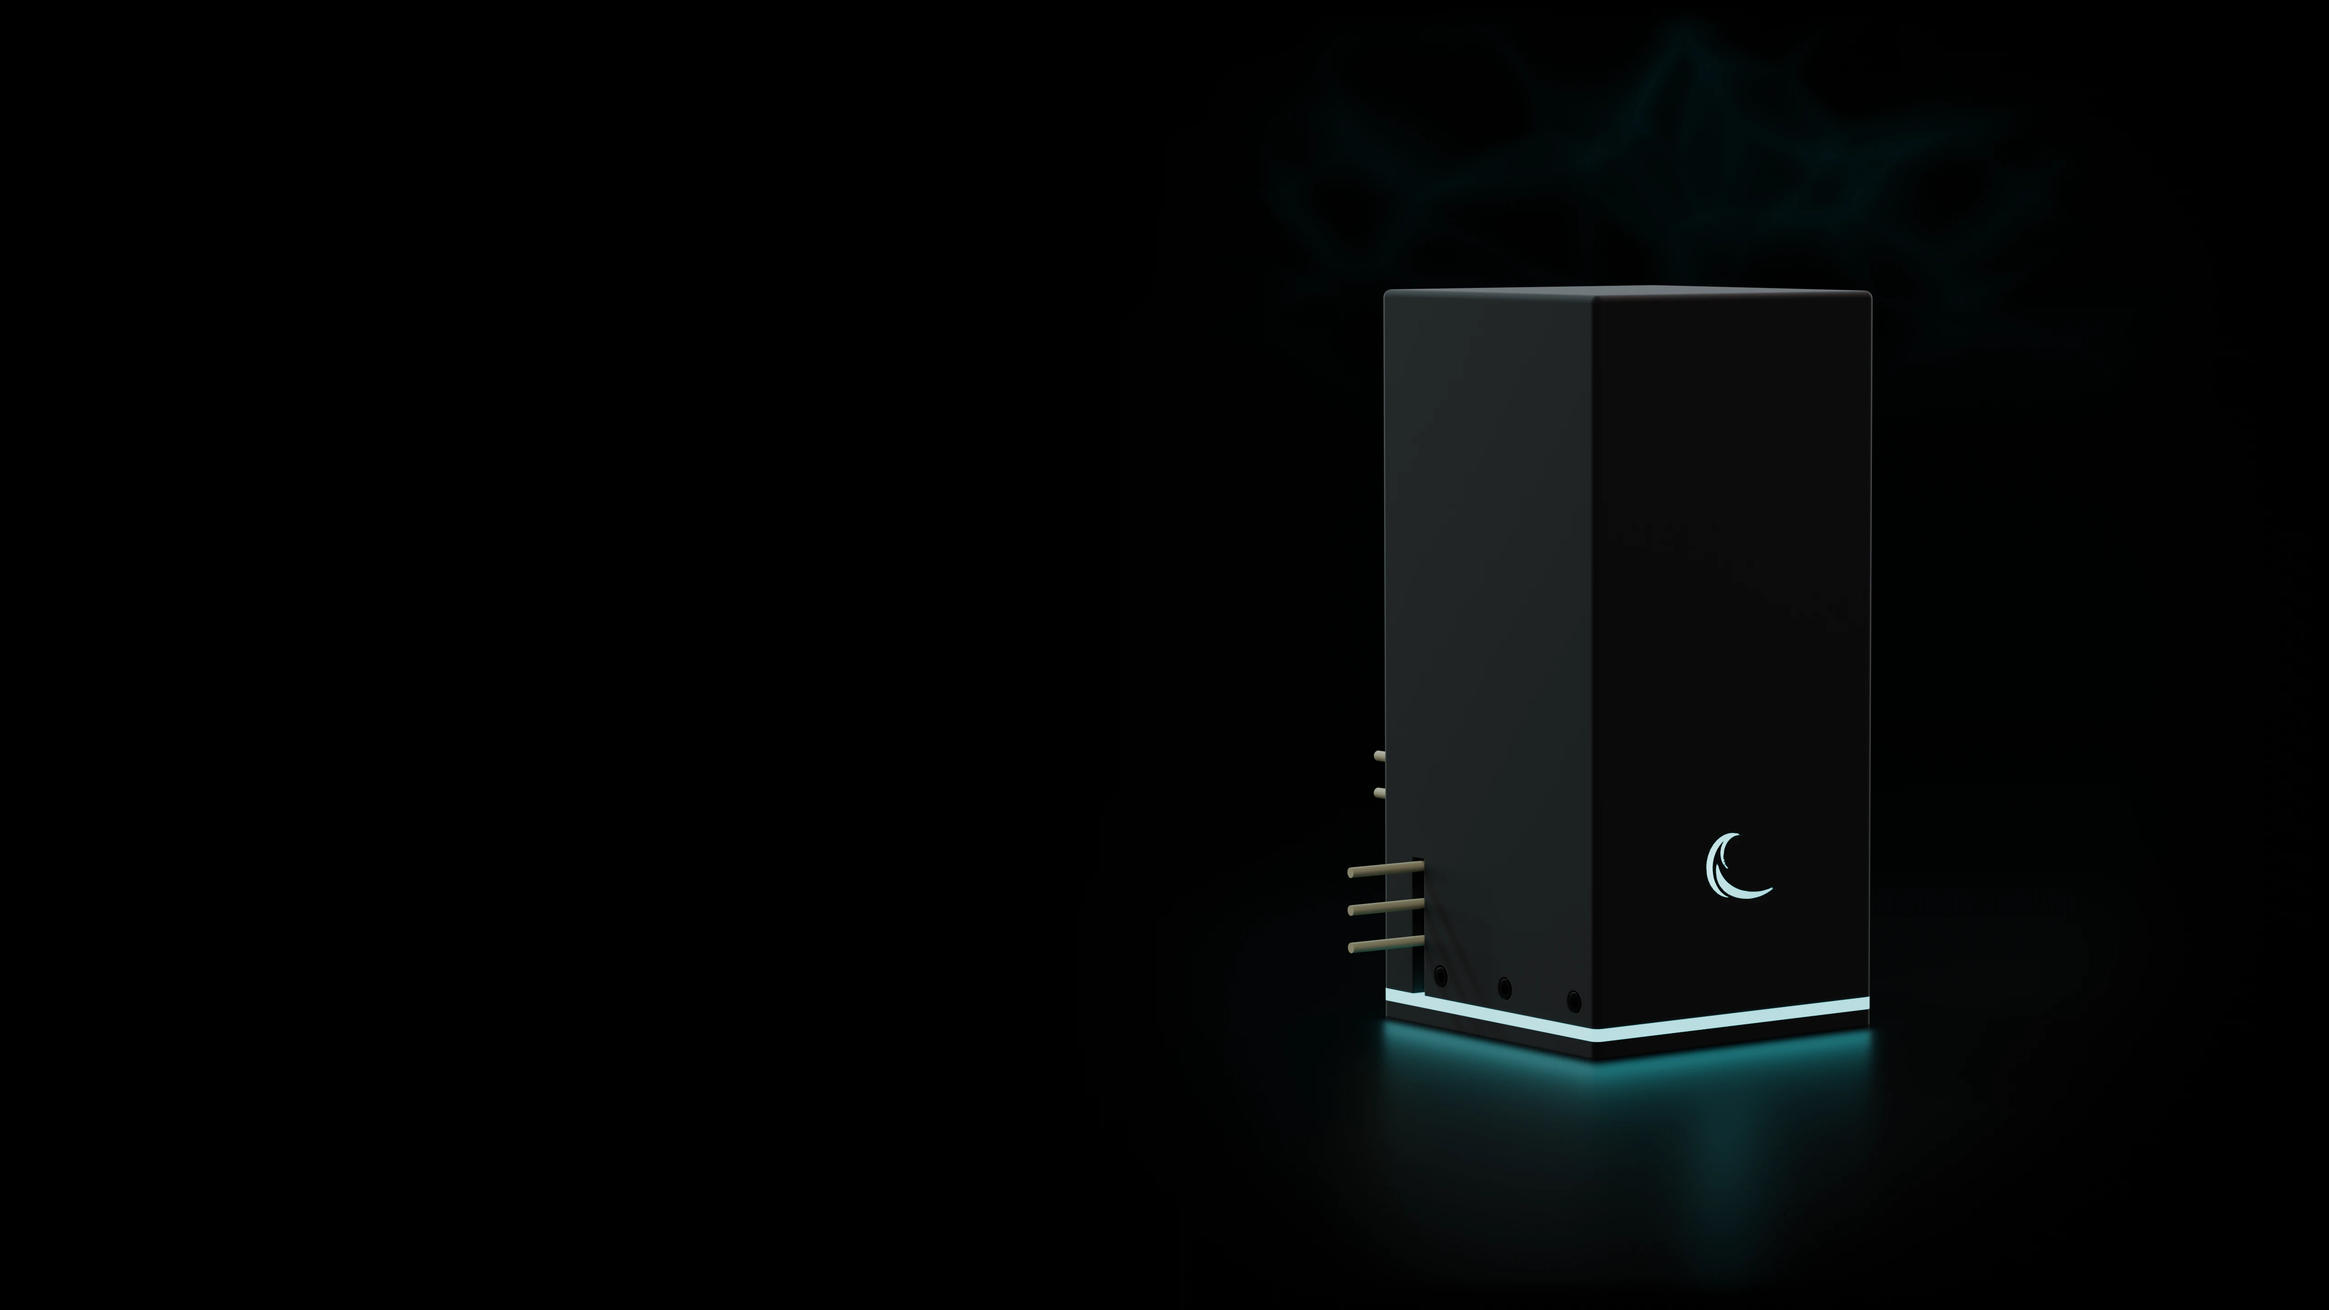
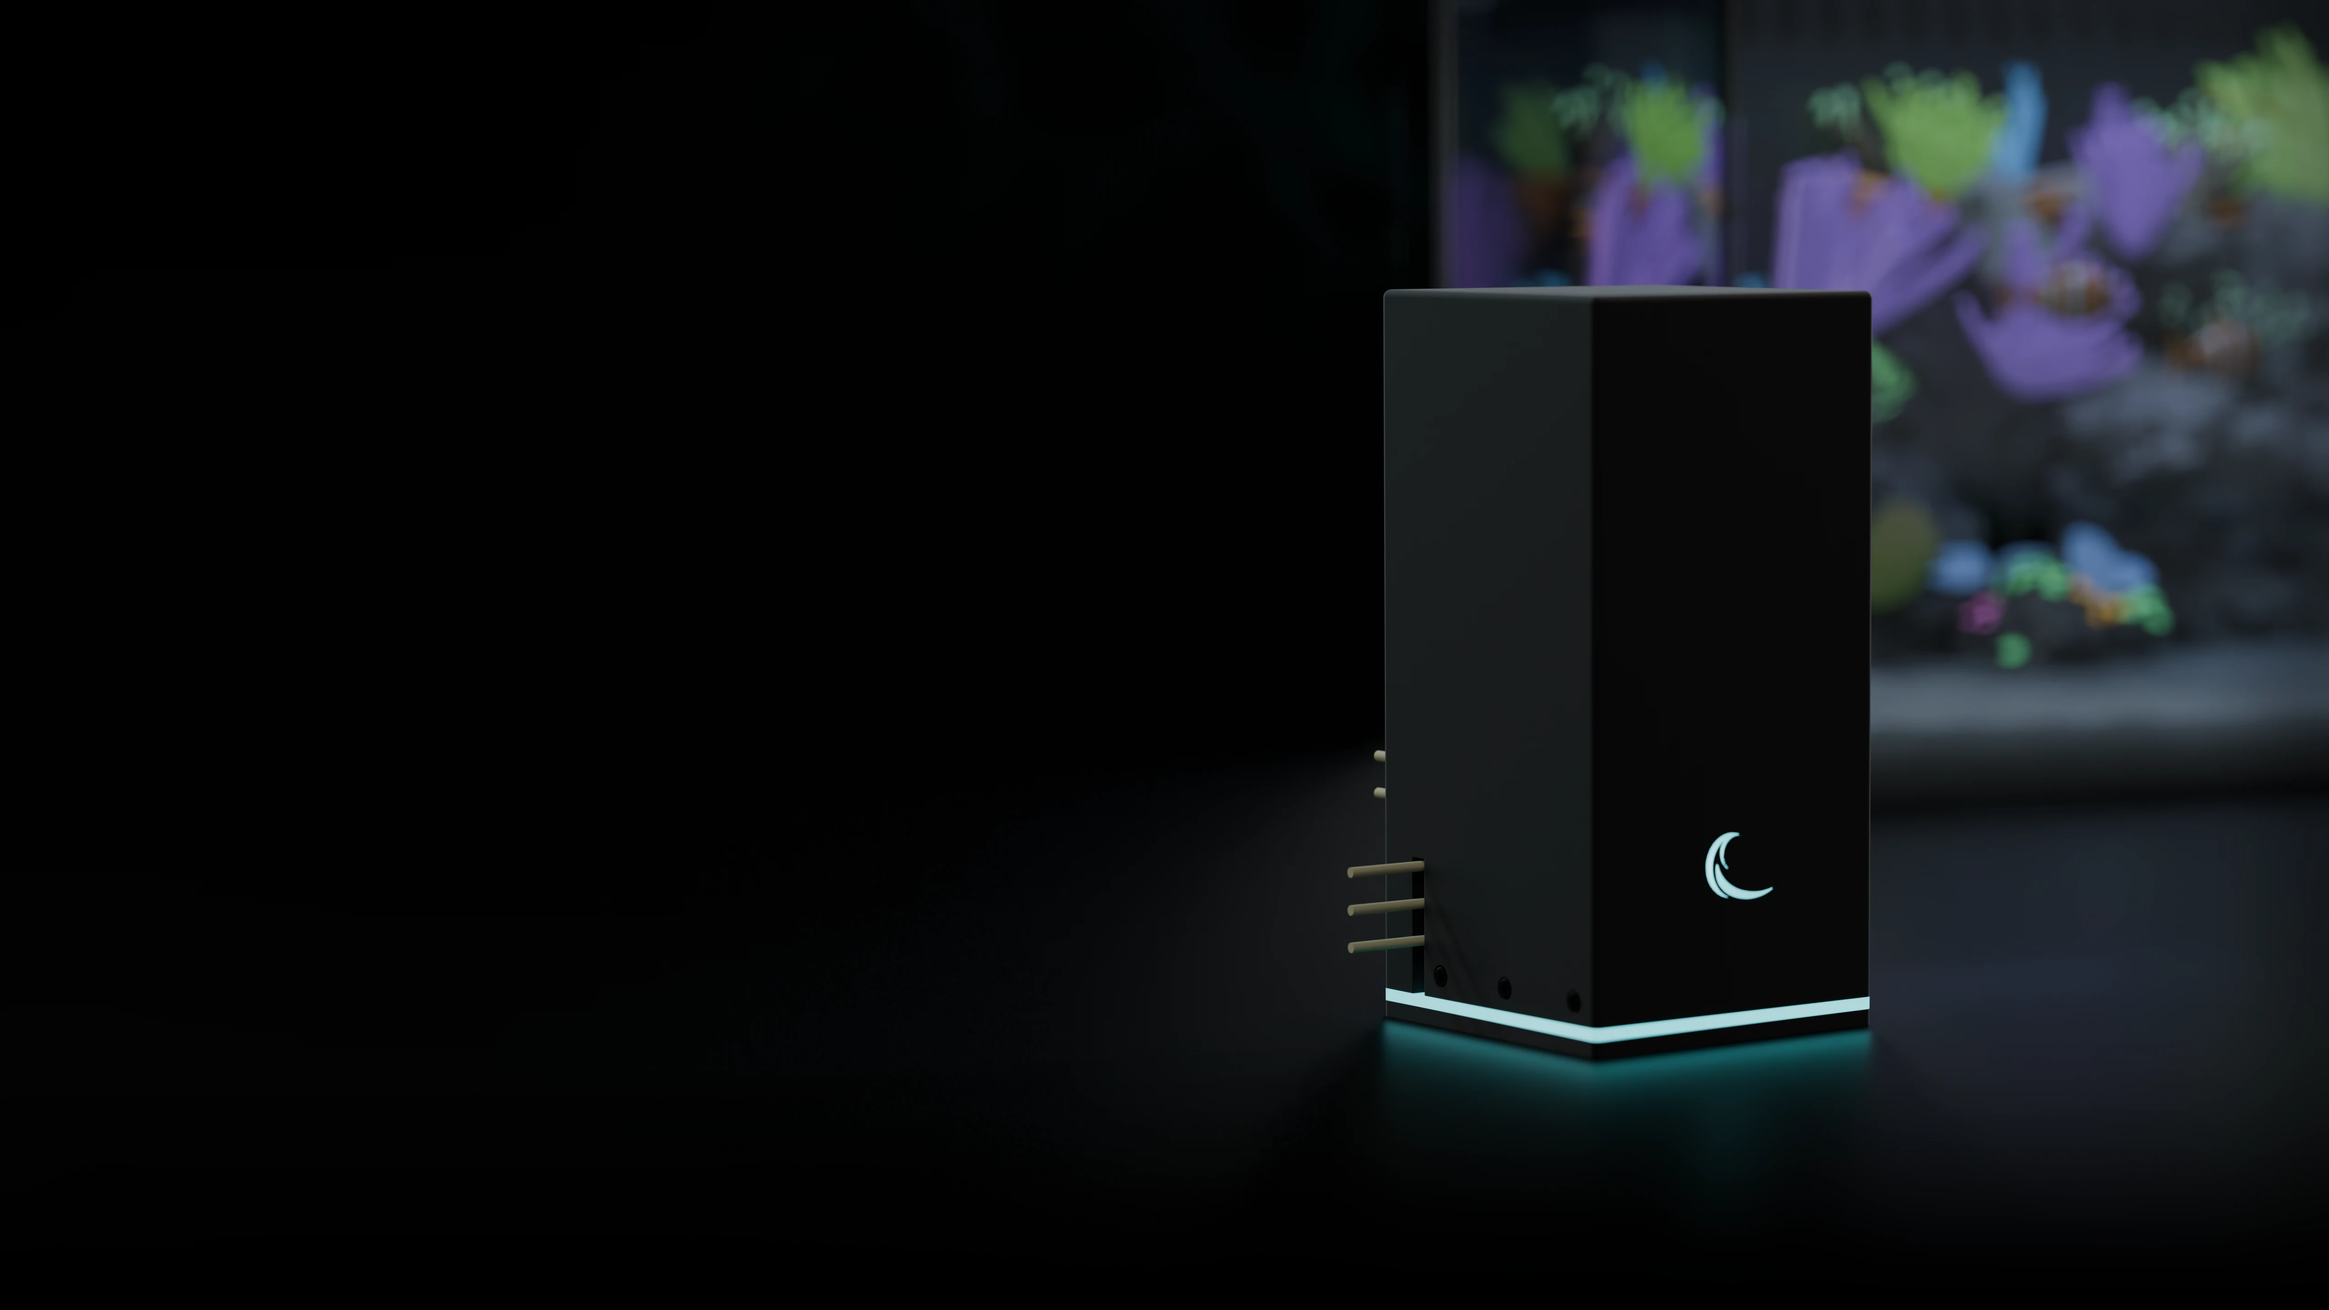
feat: reef hero, edge-to-edge; new 404; Wavie beside a tank and in its tray
- Homepage hero re-rendered at 5K with a nano reef softly behind the tower,
  filling the hero edge to edge and fading into the page
- 404 page rebuilt on the exploded tour frame
- Features: 'Beside a tank' and 'How it connects' tabs

Claude-Session: https://claude.ai/code/session_01X9roU4yQXuoT988YzKPjXX

diff --git a/assets/css/site.css b/assets/css/site.css
@@ -370,7 +370,13 @@ figure[data-labels] { position: relative; }
 
 /* ── Homepage hero: one still render, copy over its black left side ── */
 .hero { position: relative; min-height: 100vh; min-height: 100svh; display: flex; align-items: center; overflow: hidden; }
-.hero-image { position: absolute; inset: 0; width: 100%; height: 100%; object-fit: contain; object-position: 50% 50%; }
+/* The render fills the hero edge to edge (cover, held on the tower at about
+   two thirds across), and its bottom fades into the page so there is no seam. */
+.hero-image {
+  position: absolute; inset: 0; width: 100%; height: 100%; object-fit: cover; object-position: 66% 50%;
+  -webkit-mask-image: linear-gradient(to bottom, #000 82%, transparent);
+  mask-image: linear-gradient(to bottom, #000 82%, transparent);
+}
 .hero .wrap { position: relative; }
 .hero-copy { width: min(42%, 36rem); padding-block: calc(var(--nav-h) + 24px) 40px; }
 .hero-copy > * + * { margin-top: 22px; }
@@ -388,6 +394,16 @@ figure[data-labels] { position: relative; }
   .facts-cols ul { line-height: 1.55; font-size: 0.875rem; }
   .hero-actions { margin-top: 22px; }
 }
+/* Portrait screens wide enough for the side-by-side layout (large tablets):
+   cover would blow the tower up behind the text, so the full 16:9 render sits
+   along the bottom, faded at its top and bottom edges into the page. */
+@media (min-width: 861px) and (max-aspect-ratio: 1/1) {
+  .hero-image {
+    inset: auto 0 0 0; height: auto; aspect-ratio: 16 / 9;
+    -webkit-mask-image: linear-gradient(to bottom, transparent, #000 18%, #000 82%, transparent);
+    mask-image: linear-gradient(to bottom, transparent, #000 18%, #000 82%, transparent);
+  }
+}
 .tests-cue { display: none; }
 @media (max-width: 860px) {
   /* Phones: the first screen is exactly the render, the headline and the two
@@ -399,9 +415,10 @@ figure[data-labels] { position: relative; }
     display: block; position: relative; margin-top: var(--nav-h);
     height: max(calc(var(--screen-h, 100svh) * 0.42), calc(var(--screen-h, 100svh) - var(--nav-h) - var(--hero-copy, 270px) + 20px));
   }
-  /* The phone image is already cropped tight to the tower; contain keeps all of
-     it in view on short screens, and its black edges meet the black page. */
-  .hero-image { position: absolute; inset: 0; width: 100%; height: 100%; object-fit: contain; object-position: 50% 50%; }
+  /* The phone image is cropped tight to the tower and fills its box (cover,
+     anchored a little above centre so the tower's top is never cut); the bottom
+     fades into the page under the headline. */
+  .hero-image { object-position: 50% 40%; -webkit-mask-image: linear-gradient(to bottom, #000 72%, transparent); mask-image: linear-gradient(to bottom, #000 72%, transparent); }
   .hero .wrap { margin-top: -20px; }
   .hero-copy { width: 100%; padding-block: 0 40px; display: flex; flex-direction: column; }
   .hero-copy > * + * { margin-top: 0; }
@@ -580,8 +597,41 @@ html.js .unveil:not(.is-static) .beat.is-on .beat-copy { transform: none; }
 @keyframes spin { to { transform: rotate(360deg); } }
 
 /* 404 */
-.not-found h1 { margin-top: 8px; }
-.not-found .hero-actions { margin-top: 28px; }
+/* 404: the exploded tour frame fills the screen, the parts drift slowly,
+   and the copy sits in the dark zone on the left (on phones, below the parts). */
+.lost { position: relative; min-height: 100vh; min-height: 100svh; display: flex; align-items: center; overflow: hidden; }
+.lost-art { position: absolute; inset: 0; }
+.lost-art img {
+  width: 100%; height: 100%; object-fit: cover; object-position: 100% 50%;
+  animation: lost-drift 18s ease-in-out infinite alternate;
+  -webkit-mask-image: linear-gradient(to bottom, #000 80%, transparent);
+  mask-image: linear-gradient(to bottom, #000 80%, transparent);
+}
+@keyframes lost-drift {
+  from { transform: scale(1) translate3d(0, 0, 0); }
+  to { transform: scale(1.06) translate3d(-1.2%, -1%, 0); }
+}
+.lost-copy { position: relative; isolation: isolate; padding-block: calc(var(--nav-h) + 40px) 64px; }
+.lost-copy > * { max-width: 30rem; }
+.lost .eyebrow { color: var(--teal-bright); font-size: 0.8125rem; letter-spacing: 0.14em; text-transform: uppercase; }
+.lost h1 { margin-top: 14px; font-size: clamp(2.3rem, 1rem + 2.9vw, 3.6rem); }
+.lost .lede { margin-top: 20px; color: var(--ink-2); }
+.lost .hero-actions { margin-top: 32px; }
+.lost-links { display: flex; flex-wrap: wrap; gap: 8px 22px; margin-top: 36px; font-size: 0.9375rem; }
+.lost-links a { color: var(--ink-2); text-decoration: none; border-bottom: 1px solid rgba(255, 255, 255, 0.18); padding-bottom: 2px; }
+.lost-links a:hover { color: var(--ink); border-color: var(--teal-bright); }
+@media (max-width: 860px) {
+  .lost { align-items: flex-end; }
+  /* The phone frame shows whole at full width; its parts fill the top ~60%. */
+  .lost-art { bottom: auto; }
+  .lost-art img { height: auto; -webkit-mask-image: linear-gradient(to bottom, #000 50%, transparent 66%); mask-image: linear-gradient(to bottom, #000 50%, transparent 66%); }
+  .lost-copy { padding-block: calc(100vw * 1.02) 48px; }
+  .lost .hero-actions { flex-direction: row; gap: 10px; }
+  .lost .hero-actions .btn { flex: 1; padding: 0 12px; }
+  .lost .label-wide { display: none; }
+  .lost .label-narrow { display: inline; }
+}
+@media (prefers-reduced-motion: reduce) { .lost-art img { animation: none; } }
 
 /* Privacy notice for analytics */
 .consent {

diff --git a/features.html b/features.html
@@ -29,7 +29,7 @@
   <link rel="preconnect" href="https://fonts.gstatic.com" crossorigin />
   <link href="https://fonts.googleapis.com/css2?family=Poppins:wght@300;400;500&display=swap" rel="stylesheet" />
   <link rel="preload" href="/assets/seq/tour.json?v=8ab26c1b9c" as="fetch" crossorigin />
-  <link rel="stylesheet" href="/assets/css/site.css?v=d32862a13d" />
+  <link rel="stylesheet" href="/assets/css/site.css?v=a9a95046a7" />
   <script>
     // Pinned scroll tour unless reduced motion is requested (see assets/js/unveil.js).
     // Scrolling is held from the first moment ("tour-gate") until unveil.js has
@@ -292,11 +292,21 @@
         <div class="tabs" data-tabs>
           <div class="tab-list" role="tablist" aria-label="Size and connections">
             <button type="button" role="tab" id="tab-size" aria-controls="panel-size" aria-selected="true">Size</button>
+            <button type="button" role="tab" id="tab-tank" aria-controls="panel-tank" aria-selected="false" tabindex="-1">Beside a tank</button>
+            <button type="button" role="tab" id="tab-installed" aria-controls="panel-installed" aria-selected="false" tabindex="-1">How it connects</button>
             <button type="button" role="tab" id="tab-ports" aria-controls="panel-ports" aria-selected="false" tabindex="-1">Connections</button>
           </div>
           <div role="tabpanel" id="panel-size" aria-labelledby="tab-size">
             <img class="photo" src="/assets/img/banana-dims.webp" alt="Wavie beside a banana for scale, with dimension lines showing 184 mm tall and 88 mm wide" width="1600" height="1200" loading="lazy" />
             <p class="muted panel-note">Small enough for a sump cabinet or a shelf beside the tank. Banana for scale.</p>
+          </div>
+          <div role="tabpanel" id="panel-tank" aria-labelledby="tab-tank" hidden>
+            <img class="photo" src="/assets/img/beside-tank.webp" alt="Wavie standing beside a 40 cm rimless nano reef tank, shown at true scale" width="1600" height="1200" loading="lazy" />
+            <p class="muted panel-note">At true scale beside a 40 cm nano reef. Wavie stands outside the tank; only its sample line and probes reach the water.</p>
+          </div>
+          <div role="tabpanel" id="panel-installed" aria-labelledby="tab-installed" hidden>
+            <img class="photo" src="/assets/img/installed.webp" alt="Wavie beside a nano reef tank, with its sample line and probe cables running into the tank's rear chamber and reagent lines running to six bottles in a tray" width="1600" height="1200" loading="lazy" />
+            <p class="muted panel-note">Wavie stands in its tray beside the tank, with the six reagent bottles either side. The sample line and probes go into the tank; test waste goes to its own bottle.</p>
           </div>
           <div role="tabpanel" id="panel-ports" aria-labelledby="tab-ports" hidden>
             <img class="photo" src="/assets/img/rear-ports.webp" alt="The rear connector panel of Wavie, labelled 24V, CAN, TMP, ORP, SA, PH and DO" width="1600" height="1200" loading="lazy" />

diff --git a/404.html b/404.html
@@ -29,7 +29,7 @@
   <link rel="preconnect" href="https://fonts.googleapis.com" />
   <link rel="preconnect" href="https://fonts.gstatic.com" crossorigin />
   <link href="https://fonts.googleapis.com/css2?family=Poppins:wght@300;400;500&display=swap" rel="stylesheet" />
-  <link rel="stylesheet" href="/assets/css/site.css?v=d32862a13d" />
+  <link rel="stylesheet" href="/assets/css/site.css?v=a9a95046a7" />
 </head>
 <body>
   <a class="skip" href="#main">Skip to content</a>
@@ -67,24 +67,25 @@
     </div>
   </header>
 
-  <main id="main" class="doc not-found">
-    <div class="wrap">
-      <div class="doc-body">
-        <p class="fine">404</p>
-        <h1>This page isn't here.</h1>
-        <p class="summary">It may have moved when the site was rebuilt, or the link has a typo.</p>
-        <div class="hero-actions">
-          <a class="btn btn-primary" href="/">Go to the homepage</a>
-          <a class="btn btn-quiet" href="/features">See what's inside</a>
-        </div>
-        <h2>Looking for something?</h2>
-        <ul>
-          <li><a href="/#beta-kit">Pre-order the Wavie Beta Kit</a></li>
-          <li><a href="/questions">Questions and answers</a></li>
-          <li><a href="/updates">Updates and planned features</a></li>
-          <li><a href="/contact">Contact us</a></li>
-        </ul>
+  <main id="main" class="lost">
+    <picture class="lost-art" aria-hidden="true">
+      <source media="(max-width: 860px)" srcset="/assets/img/tour-explode-m.webp" width="1080" height="1920" />
+      <img src="/assets/img/tour-explode.webp" alt="" width="2560" height="1440" />
+    </picture>
+    <div class="wrap lost-copy">
+      <p class="eyebrow">404 · Part not found</p>
+      <h1>This page isn't here.</h1>
+      <p class="lede">Every part of Wavie comes out. This page did too, and we can't find where it went. It may have moved when the site was rebuilt, or the link has a typo.</p>
+      <div class="hero-actions">
+        <a class="btn btn-primary" href="/"><span class="label-wide">Go to the homepage</span><span class="label-narrow">Homepage</span></a>
+        <a class="btn btn-quiet" href="/features">See what's inside</a>
       </div>
+      <nav class="lost-links" aria-label="Popular pages">
+        <a href="/#beta-kit">Pre-order the Beta Kit</a>
+        <a href="/questions">Questions</a>
+        <a href="/updates">Updates</a>
+        <a href="/contact">Contact</a>
+      </nav>
     </div>
   </main>
 

diff --git a/index.html b/index.html
@@ -30,7 +30,7 @@
   <link href="https://fonts.googleapis.com/css2?family=Poppins:wght@300;400;500&display=swap" rel="stylesheet" />
   <link rel="preload" as="image" href="/assets/img/hero-desktop.webp" imagesrcset="/assets/img/hero-desktop-1920.webp 1920w, /assets/img/hero-desktop-2880.webp 2880w, /assets/img/hero-desktop.webp 3840w, /assets/img/hero-desktop-5120.webp 5120w" imagesizes="100vw" media="(min-width: 861px)" />
   <link rel="preload" as="image" href="/assets/img/hero-mobile-tight.webp" imagesrcset="/assets/img/hero-mobile-tight-800.webp 800w, /assets/img/hero-mobile-tight.webp 1368w, /assets/img/hero-mobile-tight-2048.webp 2048w" imagesizes="100vw" media="(max-width: 860px)" />
-  <link rel="stylesheet" href="/assets/css/site.css?v=d32862a13d" />
+  <link rel="stylesheet" href="/assets/css/site.css?v=a9a95046a7" />
 </head>
 <body>
   <a class="skip" href="#main">Skip to content</a>

diff --git a/contact.html b/contact.html
@@ -28,7 +28,7 @@
   <link rel="preconnect" href="https://fonts.googleapis.com" />
   <link rel="preconnect" href="https://fonts.gstatic.com" crossorigin />
   <link href="https://fonts.googleapis.com/css2?family=Poppins:wght@300;400;500&display=swap" rel="stylesheet" />
-  <link rel="stylesheet" href="/assets/css/site.css?v=d32862a13d" />
+  <link rel="stylesheet" href="/assets/css/site.css?v=a9a95046a7" />
 </head>
 <body>
   <a class="skip" href="#main">Skip to content</a>

diff --git a/privacy.html b/privacy.html
@@ -28,7 +28,7 @@
   <link rel="preconnect" href="https://fonts.googleapis.com" />
   <link rel="preconnect" href="https://fonts.gstatic.com" crossorigin />
   <link href="https://fonts.googleapis.com/css2?family=Poppins:wght@300;400;500&display=swap" rel="stylesheet" />
-  <link rel="stylesheet" href="/assets/css/site.css?v=d32862a13d" />
+  <link rel="stylesheet" href="/assets/css/site.css?v=a9a95046a7" />
 </head>
 <body>
   <a class="skip" href="#main">Skip to content</a>

diff --git a/questions.html b/questions.html
@@ -28,7 +28,7 @@
   <link rel="preconnect" href="https://fonts.googleapis.com" />
   <link rel="preconnect" href="https://fonts.gstatic.com" crossorigin />
   <link href="https://fonts.googleapis.com/css2?family=Poppins:wght@300;400;500&display=swap" rel="stylesheet" />
-  <link rel="stylesheet" href="/assets/css/site.css?v=d32862a13d" />
+  <link rel="stylesheet" href="/assets/css/site.css?v=a9a95046a7" />
 </head>
 <body>
   <a class="skip" href="#main">Skip to content</a>

diff --git a/terms.html b/terms.html
@@ -28,7 +28,7 @@
   <link rel="preconnect" href="https://fonts.googleapis.com" />
   <link rel="preconnect" href="https://fonts.gstatic.com" crossorigin />
   <link href="https://fonts.googleapis.com/css2?family=Poppins:wght@300;400;500&display=swap" rel="stylesheet" />
-  <link rel="stylesheet" href="/assets/css/site.css?v=d32862a13d" />
+  <link rel="stylesheet" href="/assets/css/site.css?v=a9a95046a7" />
 </head>
 <body>
   <a class="skip" href="#main">Skip to content</a>

diff --git a/thank-you.html b/thank-you.html
@@ -29,7 +29,7 @@
   <link rel="preconnect" href="https://fonts.googleapis.com" />
   <link rel="preconnect" href="https://fonts.gstatic.com" crossorigin />
   <link href="https://fonts.googleapis.com/css2?family=Poppins:wght@300;400;500&display=swap" rel="stylesheet" />
-  <link rel="stylesheet" href="/assets/css/site.css?v=d32862a13d" />
+  <link rel="stylesheet" href="/assets/css/site.css?v=a9a95046a7" />
 </head>
 <body>
   <a class="skip" href="#main">Skip to content</a>

diff --git a/updates.html b/updates.html
@@ -28,7 +28,7 @@
   <link rel="preconnect" href="https://fonts.googleapis.com" />
   <link rel="preconnect" href="https://fonts.gstatic.com" crossorigin />
   <link href="https://fonts.googleapis.com/css2?family=Poppins:wght@300;400;500&display=swap" rel="stylesheet" />
-  <link rel="stylesheet" href="/assets/css/site.css?v=d32862a13d" />
+  <link rel="stylesheet" href="/assets/css/site.css?v=a9a95046a7" />
 </head>
 <body>
   <a class="skip" href="#main">Skip to content</a>

diff --git a/warranty.html b/warranty.html
@@ -28,7 +28,7 @@
   <link rel="preconnect" href="https://fonts.googleapis.com" />
   <link rel="preconnect" href="https://fonts.gstatic.com" crossorigin />
   <link href="https://fonts.googleapis.com/css2?family=Poppins:wght@300;400;500&display=swap" rel="stylesheet" />
-  <link rel="stylesheet" href="/assets/css/site.css?v=d32862a13d" />
+  <link rel="stylesheet" href="/assets/css/site.css?v=a9a95046a7" />
 </head>
 <body>
   <a class="skip" href="#main">Skip to content</a>
